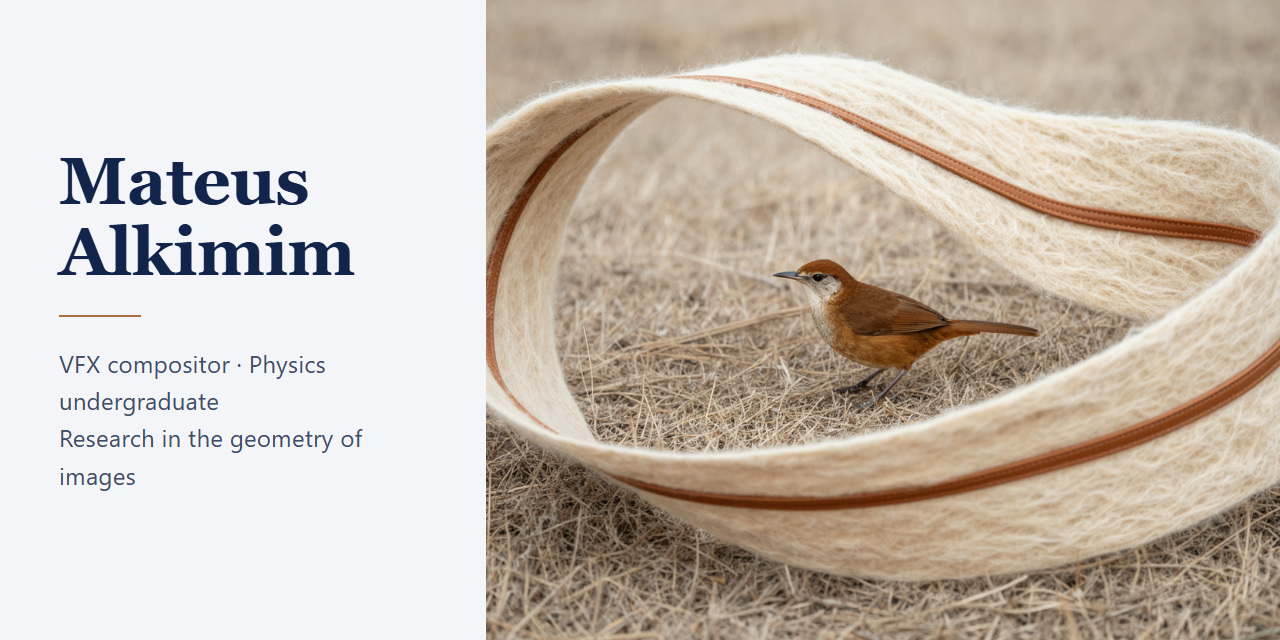
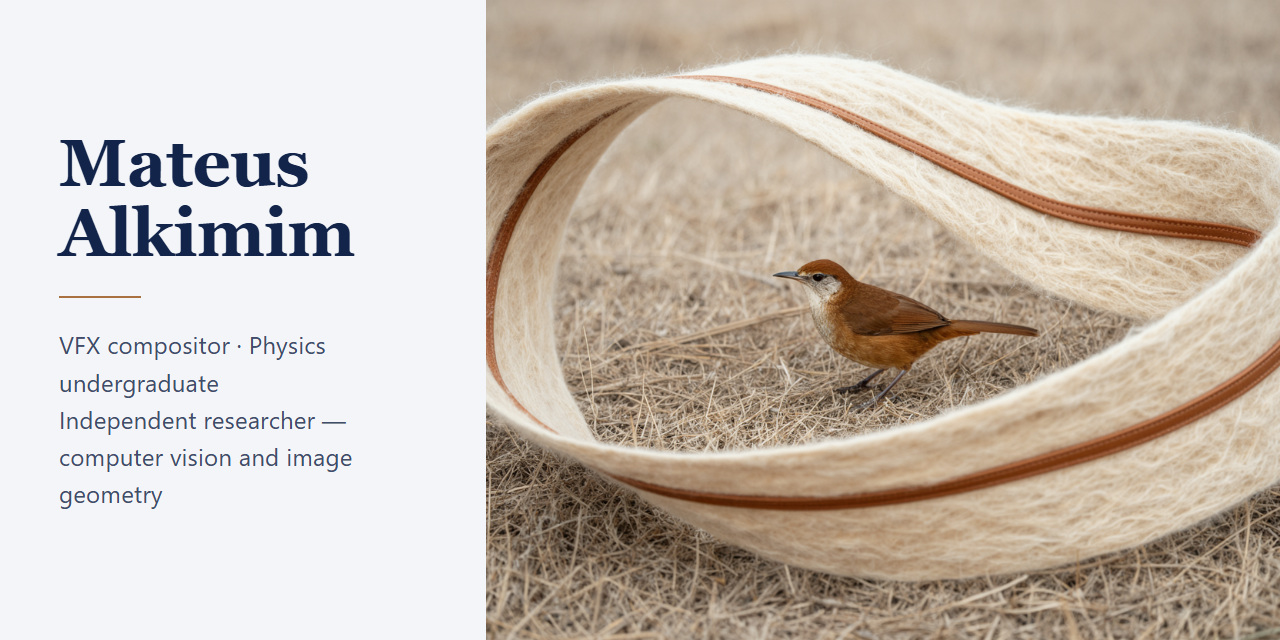
profile: independent researcher, computer vision and image geometry
Adds the research line beside the craft and the degree, and rebuilds the
banner so the image says the same thing as the text under it.

Also fixes the banner alt text, which still described a role that had
already been removed from the title.

Changed region(s): [[0.0312, 0.5312, 0.2812, 0.8125], [0.0312, 0.2188, 0.2812, 0.4375]]

diff --git a/README.md b/README.md
@@ -1,8 +1,9 @@
-![Mateus Alkimim — VFX compositor and pipeline TD, physics undergraduate. Research in the geometry of images.](media/banner.jpg)
+![Mateus Alkimim — VFX compositor, independent researcher in computer vision and image geometry, physics undergraduate.](media/banner.jpg)
 
 # Mateus Alkimim
 
-**Visual Effects Compositor · Physics undergraduate** — Montes Claros, Brazil
+**Visual Effects Compositor · Independent researcher, computer vision and
+image geometry · Physics undergraduate** — Montes Claros, Brazil
 
 I measure images. My work lives on the bridge between VFX production and
 mathematics: compositing that closes shots, pipeline tools that studios adopt,
